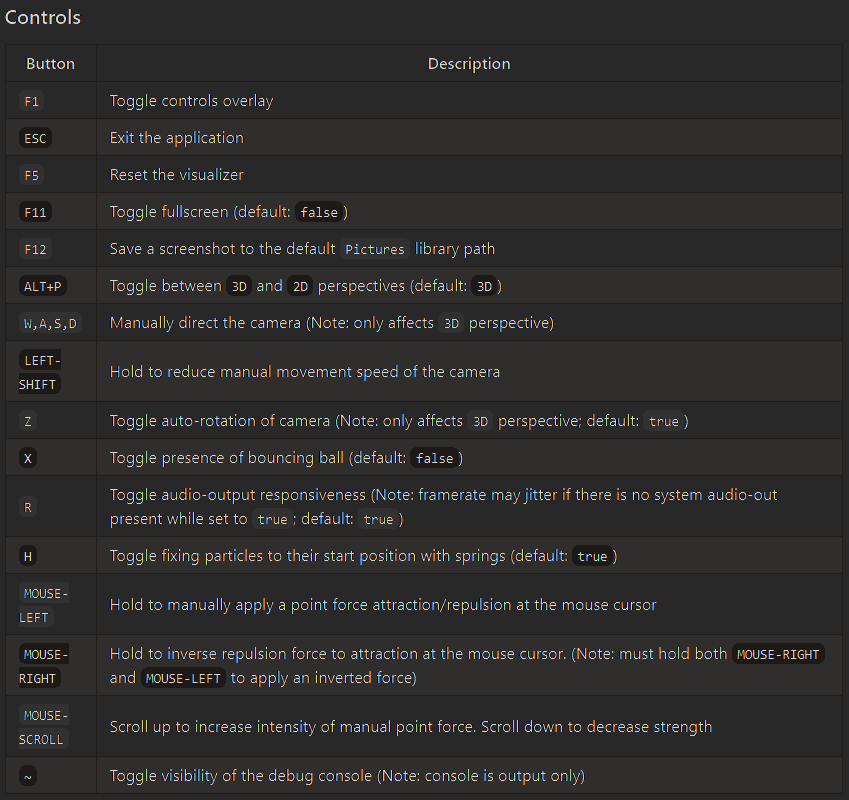
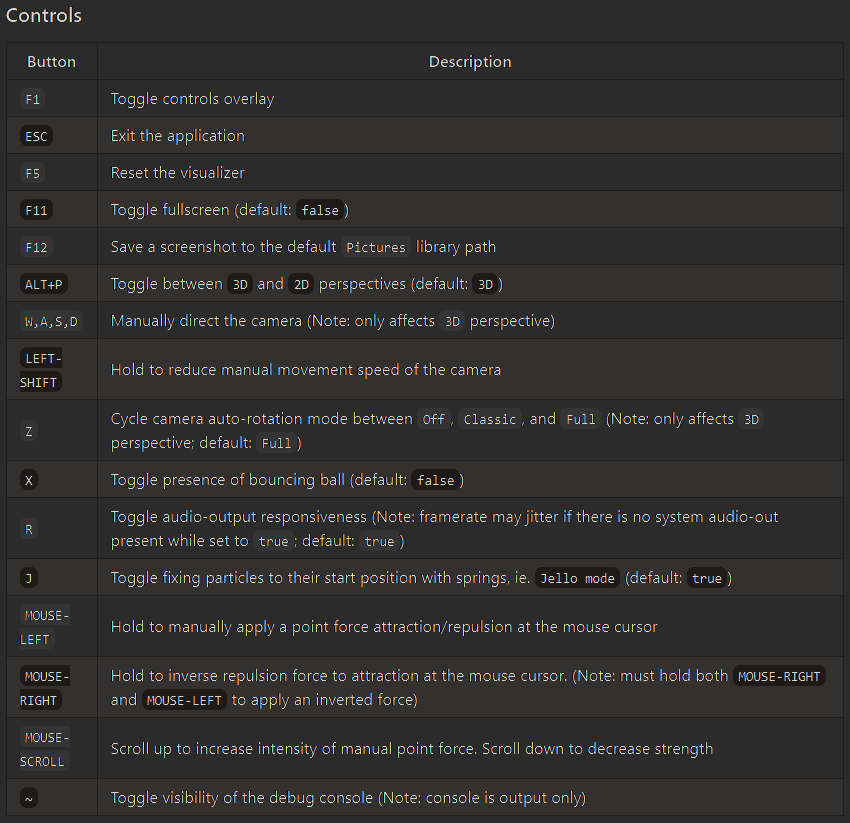
Tweaks, controls updated

diff --git a/README.md b/README.md
@@ -74,7 +74,7 @@ but most notably the rate, speed, and strength of various operations.
 | cursorForceScrollIncrease | 1.5 | Factor to multiply cursor strength by on user `MOUSE-SCROLL` up |
 | cursorForceInverseFactor | 1.5 | Factor to multiple cursor strength by on inverse (ie. strength of pull relative to push. if this number is negative then both forces push) |
 | cursorForceInitial | 7.5 | Starting strength of the cursor's point-force. |
-| cursorHideAfterSeconds | 0.75 | Amount of seconds of cursor inactivity to wait before hiding the cursor. Cursor appears upon moving again |
+| cursorHideAfterSeconds | 0.5 | Amount of seconds of cursor inactivity to wait before hiding the cursor. Cursor appears upon moving again |
 | bouncingBallSize | 0.1 | Radius of the bouncing ball. Note that the encompassing cube is 2 units in length |
 | bouncingBallVelocity | {x: -0.4, y: 0.4, z: -0.3} | Describes the starting velocity of the bouncing ball |
 | particleCount | 1572864 | Number of coloured particles in the visualizer |
@@ -93,7 +93,8 @@ but most notably the rate, speed, and strength of various operations.
 | cameraOrbitSpeed | 0.75 | Factor to adjust speed of camera rotations/orbits |
 | cameraMoveSpeed | 0.75 | Factor to adjust speed of camera movement |
 | autoOrbitSpeed | 0.05 | Main rotation speed of camera auto-rotation |
-| autoOrbitJerk | 0.1 | Factor to increase strength of camera jerks in `Full` camera auto-rotation |
+| autoOrbitJerk | 0.1 | Factor to increase strength of camera jerks in `Full` camera auto-rotation mode |
+| minimumBassForJerk | 0.05 | Minimum bass note magnitude to trigger camera jerk in `Full` camera auto-rotation mode |
 | shiftFactorOrbit | 0.3 | Factor to multiply camera orbit speed by when holding `LEFT-SHIFT` |
 | shiftFactorMove | 0.3 | Factor to multiply camera movement speed by when holding `LEFT-SHIFT` |
 | cameraInertia | 0.4 | Camera's resistance to user inputs on movement |
